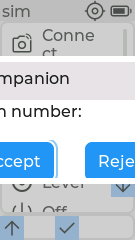
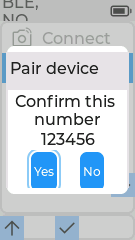
fix(ui): reserve the legend column only in its actual band
The whole-page row reservation added in 8854a374 wrapped Connect and Settings
against empty space on the 135 px Stick panel. Measure the floating legend's
vertical band and narrow only rows that intersect it. Use the text-size font
policy for the compact companion code and footer, and refresh the walkthrough
capture and copy.

diff --git a/src/FurbleUI.cpp b/src/FurbleUI.cpp
@@ -305,6 +305,8 @@ std::mutex UI::m_Mutex;
 UI::ConnectContext_t UI::m_ConnectContext;
 
 int32_t UI::m_LegendWidth = 0;
+int32_t UI::m_LegendTop = -1;
+int32_t UI::m_LegendBottom = -1;
 
 lv_obj_t *UI::m_ScanFinished;
 
@@ -826,6 +828,10 @@ UI::UI(const interval_t &interval)
     // legend box that is actually drawn, not a theme default width.
     lv_obj_update_layout(m_Right);
     m_LegendWidth = lv_obj_get_width(m_Right);
+    lv_area_t legendArea;
+    lv_obj_get_coords(m_Right, &legendArea);
+    m_LegendTop = legendArea.y1;
+    m_LegendBottom = legendArea.y2;
   }
 
   configureControl(ControlMode::MENU);
@@ -1050,7 +1056,7 @@ void UI::showCameraPairing(Camera *camera) {
   const auto fitFooterButton = [narrowFooter](lv_obj_t *button) {
     if (narrowFooter) {
       lv_obj_set_style_pad_hor(button, 3, 0);
-      lv_obj_set_style_text_font(button, &lv_font_montserrat_12, 0);
+      lv_obj_set_style_text_font(button, fontForTextSize(Settings::TEXT_SIZE_SMALL), 0);
     }
   };
 
@@ -1397,8 +1403,7 @@ void UI::companionPairingTimer(lv_timer_t *timer) {
   lv_obj_t *code = lv_label_create(content);
   lv_label_set_text_fmt(code, "%06lu",
                         static_cast<unsigned long>(companion.getPendingPairingPin()));
-  lv_obj_set_style_text_font(
-      code, ui->m_Width < 100 ? &lv_font_montserrat_16 : &lv_font_montserrat_22, 0);
+  lv_obj_set_style_text_font(code, fontForTextSize(Settings::load<Settings::TEXT_SIZE>()), 0);
   lv_obj_set_style_text_align(code, LV_TEXT_ALIGN_CENTER, 0);
 
   const bool narrowFooter = ui->m_Width < 200;
@@ -2300,7 +2305,11 @@ void UI::reserveLegendColumns(lv_obj_t *page) {
         break;
       }
     }
-    if (reserve > 0) {
+    lv_area_t rowArea;
+    lv_obj_get_coords(row, &rowArea);
+    const bool overlapsLegend =
+        (m_LegendTop < 0) || ((rowArea.y2 >= m_LegendTop) && (rowArea.y1 <= m_LegendBottom));
+    if ((reserve > 0) && overlapsLegend) {
       // The row's own box, not its padding. A child is clipped to its parent's
       // box, so padding alone still lets a roller or switch enter the reserved
       // strip. Recompute from the page so loading twice cannot shrink it twice.
@@ -2309,6 +2318,12 @@ void UI::reserveLegendColumns(lv_obj_t *page) {
       // left by the half-width LVGL would otherwise leave on both sides, so the
       // entire reservation stays beside the right-hand legend.
       lv_obj_set_style_translate_x(row, -(reserve / 2), LV_PART_MAIN);
+    } else if (reserve > 0) {
+      // The legend only occupies one small band on the right edge. Rows above
+      // or below it keep the space; the old whole-page reservation wrapped
+      // "Connect" and "Settings" on the 135 px Stick panel for no reason.
+      lv_obj_set_width(row, LV_PCT(100));
+      lv_obj_set_style_translate_x(row, 0, LV_PART_MAIN);
     }
     lv_obj_update_layout(row);
     for (uint32_t j = 0; j < lv_obj_get_child_count(row); j++) {
@@ -12757,8 +12772,8 @@ void UI::doPowerOff(void) {
   m_PoweringOff = true;
   closeLowBatteryWarning();
 
-  // TODO(plans/implemented/68-reconnect-after-restart.md): prepareRestart on feat/68 needs this
-  // same quiesce ordering, a future shared helper should absorb both paths.
+  // TODO(plans/implemented/68-reconnect-after-restart.md): prepareRestart on feat/68 needs this same quiesce
+  // ordering, a future shared helper should absorb both paths.
 #if defined(FURBLE_M5STICKS3)
   // Stop the watchdog first, the BLE teardown below can outlast a feed period.
   Platform::getInstance().watchdogEnable(false);

diff --git a/include/FurbleUI.h b/include/FurbleUI.h
@@ -872,6 +872,11 @@ class UI {
 
   // Measured width of the floating right legend, or 0 where there is none.
   static int32_t m_LegendWidth;
+  // Vertical band the floating legend actually occupies. Rows outside it keep
+  // the full page width instead of reserving an empty column for their whole
+  // height.
+  static int32_t m_LegendTop;
+  static int32_t m_LegendBottom;
 
   // Breathing room between a row and the legend beside it.
   static constexpr int32_t LEGEND_GAP = 2;

diff --git a/plans/168-notouch-layout-overflows.md b/plans/168-notouch-layout-overflows.md
@@ -1196,3 +1196,16 @@ boards' eight 600-step fuzz seeds and strict seed-2 replay, and 298 physical-lay
 scenarios. Those precede the focused-outline successor and are not a substitute
 for rerunning its UI gates. The Off-mode test setup now uses the existing
 Features switch action instead of an unsupported `preset_picker` seed.
+
+
+## Right-legend reservation regression (2026-11-04)
+
+`8854a374` narrowed every scrollable row by the floating right legend width for
+the page's whole lifetime. The legend only occupies one small band at the
+bottom-right (`m_RightYOffset`), so the upper rows gave up usable width for an
+empty column: on the 135 px Stick panel "Connect" and "Settings" wrapped to two
+lines beside blank space. `reserveLegendColumns()` now measures the legend's
+vertical band after alignment and narrows only rows whose coordinates intersect
+it; rows above and below keep the full page width. The companion pairing modal
+was also content-sized past the panel edge and is now capped to the panel with
+the compact camera-pairing layout; `ui.modal_overflow` covers both modal paths.

diff --git a/docs/ui-walkthrough.md b/docs/ui-walkthrough.md
@@ -278,10 +278,12 @@ scroll down through every switch:
 
 ![Companion pairing](img/companion-pairing.png)
 
-With the Companion service enabled, a companion app that connects raises a pairing
-dialog showing a PIN with Accept and Reject buttons. Confirming pairs the app;
-rejecting dismisses it. The simulator injects a pending pairing so the dialog
-renders without a companion peer.
+With the Companion service enabled, a companion app that connects raises a
+pairing dialog showing the six-digit code with Yes and No buttons. Confirm that
+the code matches the Mac or phone, then choose Yes; No rejects the pairing. The
+dialog is width-capped to the Stick panel so the title, code and buttons stay
+fully visible. The simulator injects a pending pairing so the dialog renders
+without a companion peer.
 
 ### Infrared
 

diff --git a/docs/wiki/UI-Walkthrough.md b/docs/wiki/UI-Walkthrough.md
@@ -241,6 +241,16 @@ all three simulator panel sizes.
 ![Sensors settings](../img/settings-sensors.png)
 ![Gestures settings](../img/settings-gestures.png)
 
+### Companion pairing
+
+![Companion pairing](img/companion-pairing.png)
+
+With the Companion service enabled, a companion app that connects raises a
+pairing dialog showing the six-digit code with Yes and No buttons. Confirm that
+the code matches the Mac or phone, then choose Yes; No rejects the pairing. The
+dialog is width-capped to the Stick panel so the title, code and buttons stay
+fully visible.
+
 ### Infrared
 
 The Infrared submenu holds the Infrared on/off switch and the IR Protocol roller
